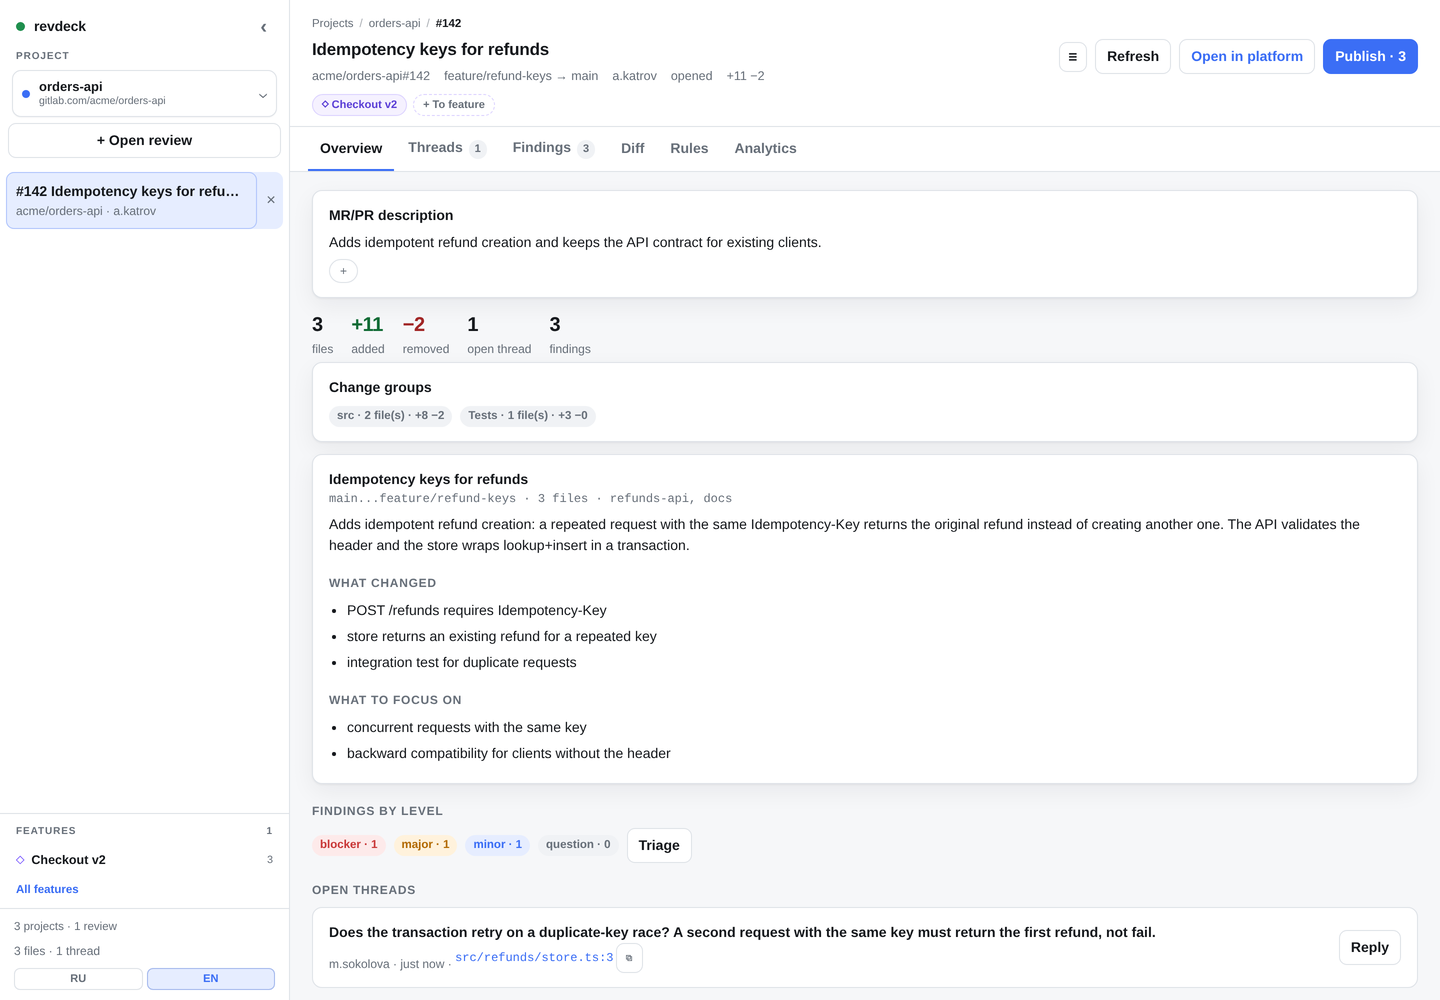
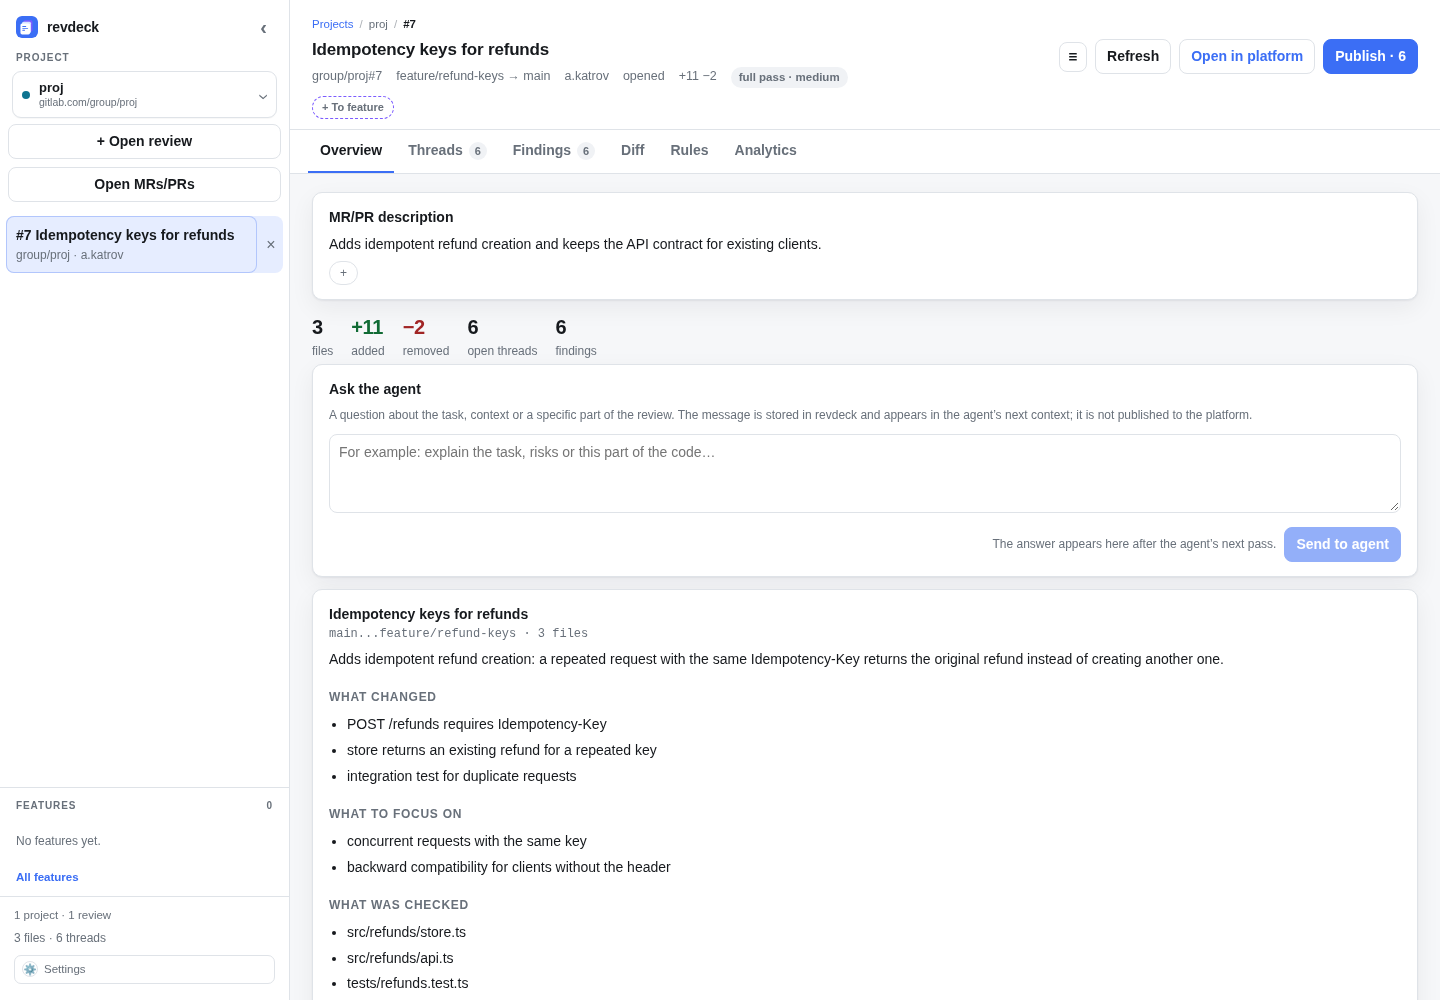
Release/v0.12.1 (#18)
* feat(ui): add back navigation from MR list

* feat(ui): use breadcrumb for MR list navigation

* docs: refresh UI screenshots

* chore(release): v0.12.1

* feat(ui): collapse review header on scroll

diff --git a/ui/src/components/MrList.svelte b/ui/src/components/MrList.svelte
@@ -1,20 +1,14 @@
 <script lang="ts">
-    import { onMount } from 'svelte';
+    import { onMount, tick } from 'svelte';
     import { app, errorText, loadPreview, notify, adoptOpenedReview, relativeTime } from '../lib/state.svelte';
     import { getRemoteReviews, openReview as openReviewApi, type RemoteReview } from '../lib/api';
     import { plural, t } from '../lib/i18n.svelte';
 
-    type Scope = 'open' | 'mine' | 'reviewing';
-    let scope = $state<Scope>('open');
     let loading = $state(false);
     let error = $state('');
     let items = $state<RemoteReview[]>([]);
-    let query = $state('');
-    let projectFilter = $state('all');
-    let author = $state('all');
-    let target = $state('all');
-    let draft = $state<'all' | 'draft' | 'ready'>('all');
     let busy = $state<string | null>(null);
+    const filters = $derived(app.mrFilters);
 
     async function load(): Promise<void> {
         loading = true;
@@ -22,13 +16,13 @@
         const errors: string[] = [];
         const collected: RemoteReview[] = [];
         try {
-            const projects = app.projects.filter((project) => projectFilter === 'all' || project.key === projectFilter);
+            const projects = app.projects.filter((project) => filters.project === 'all' || project.key === filters.project);
             await Promise.all(
                 projects.map(async (project) => {
                     const root = project.roots[0];
                     if (!root) return;
                     try {
-                        const result = await getRemoteReviews(root, scope, 100);
+                        const result = await getRemoteReviews(root, filters.scope, 100);
                         for (const item of result.items) {
                             collected.push({ ...item, root, projectKey: project.key });
                         }
@@ -41,6 +35,9 @@
             for (const item of collected) unique.set(`${item.projectKey}!${item.ref.number}`, item);
             items = [...unique.values()].sort((left, right) => right.updatedAt.localeCompare(left.updatedAt));
             if (errors.length) error = errors.join(' · ');
+            await tick();
+            const content = document.querySelector('.content');
+            if (content && app.mrScroll > 0) content.scrollTop = app.mrScroll;
         } finally {
             loading = false;
         }
@@ -54,13 +51,13 @@
     const authors = $derived([...new Set(items.map((item) => item.author).filter(Boolean))].sort());
     const targets = $derived([...new Set(items.map((item) => item.targetBranch).filter(Boolean) as string[])].sort());
     const visible = $derived.by(() => {
-        const needle = query.trim().toLowerCase();
+        const needle = filters.query.trim().toLowerCase();
         return items.filter((item) => {
-            if (projectFilter !== 'all' && item.projectKey !== projectFilter) return false;
-            if (author !== 'all' && item.author !== author) return false;
-            if (target !== 'all' && item.targetBranch !== target) return false;
-            if (draft === 'draft' && !item.draft) return false;
-            if (draft === 'ready' && item.draft) return false;
+            if (filters.project !== 'all' && item.projectKey !== filters.project) return false;
+            if (filters.author !== 'all' && item.author !== filters.author) return false;
+            if (filters.target !== 'all' && item.targetBranch !== filters.target) return false;
+            if (filters.draft === 'draft' && !item.draft) return false;
+            if (filters.draft === 'ready' && item.draft) return false;
             if (!needle) return true;
             return [item.title, item.author, item.projectKey, item.sourceBranch ?? '', item.targetBranch ?? '', String(item.ref.number)]
                 .join(' ')
@@ -71,6 +68,8 @@
 
     async function open(item: RemoteReview, preview: boolean): Promise<void> {
         busy = `${item.projectKey}!${item.ref.number}`;
+        app.viewOrigin = 'mrs';
+        app.mrScroll = document.querySelector('.content')?.scrollTop ?? 0;
         try {
             if (preview) {
                 await loadPreview({ ...item.ref }, { push: true });
@@ -104,27 +103,27 @@
 
 <section class="card mr-filters">
     <div class="row" style="gap: 8px; flex-wrap: wrap">
-        <select bind:value={scope} onchange={() => void load()}>
+        <select bind:value={app.mrFilters.scope} onchange={() => void load()}>
             <option value="open">{t('Все открытые', 'All open')}</option>
             <option value="mine">{t('Мои', 'Mine')}</option>
             <option value="reviewing">{t('На ревью', 'Review requested')}</option>
         </select>
-        <select bind:value={projectFilter} onchange={() => void load()}>
+        <select bind:value={app.mrFilters.project} onchange={() => void load()}>
             <option value="all">{t('Все проекты', 'All projects')}</option>
             {#each projects as project (project.key)}<option value={project.key}>{project.title || project.key}</option>{/each}
         </select>
-        <input bind:value={query} placeholder={t('Поиск: название, автор, ветка, номер…', 'Search: title, author, branch, number…')} style="flex: 1; min-width: 220px" />
+        <input bind:value={app.mrFilters.query} placeholder={t('Поиск: название, автор, ветка, номер…', 'Search: title, author, branch, number…')} style="flex: 1; min-width: 220px" />
     </div>
     <div class="row" style="gap: 8px; flex-wrap: wrap; margin-top: 8px">
-        <select bind:value={author}>
+        <select bind:value={app.mrFilters.author}>
             <option value="all">{t('Автор: любой', 'Author: any')}</option>
             {#each authors as value (value)}<option value={value}>@{value}</option>{/each}
         </select>
-        <select bind:value={target}>
+        <select bind:value={app.mrFilters.target}>
             <option value="all">{t('Target: любой', 'Target: any')}</option>
             {#each targets as value (value)}<option value={value}>{value}</option>{/each}
         </select>
-        <select bind:value={draft}>
+        <select bind:value={app.mrFilters.draft}>
             <option value="all">{t('Draft: все', 'Draft: all')}</option>
             <option value="draft">{t('только draft', 'only draft')}</option>
             <option value="ready">{t('без draft', 'without draft')}</option>

diff --git a/ui/src/App.svelte b/ui/src/App.svelte
@@ -1,6 +1,6 @@
 <script lang="ts">
     import { onMount } from 'svelte';
-    import { app, applyRoute, bootstrap, flushPendingReload, forgetReview, initFeaturesHidden, loadFeature, loadFeatures, loadPreview, loadProjects, loadReview, loadReviews, notify, setActiveProject, setTab, showFeaturesHome, showHelp, showMrList, showProjectsHome, showSettings, subscribe, writeHash } from './lib/state.svelte';
+    import { app, applyRoute, backToMrList, bootstrap, flushPendingReload, forgetReview, initFeaturesHidden, loadFeature, loadFeatures, loadPreview, loadProjects, loadReview, loadReviews, notify, setActiveProject, setTab, showFeaturesHome, showHelp, showMrList, showProjectsHome, showSettings, subscribe, writeHash } from './lib/state.svelte';
     import { removeProject as removeProjectApi, removeReview as removeReviewApi } from './lib/api';
     import type { ProjectSummary, ReviewListItem } from './lib/types';
     import type { Tab } from './lib/types';
@@ -33,7 +33,30 @@
     let addProjectOpen = $state(false);
     let editingProject = $state<ProjectSummary | null>(null);
     let sidebarOpen = $state(true);
+    let chromeHidden = $state(false);
+    let lastScrollTop = 0;
     const SIDEBAR_KEY = 'revdeck.sidebar';
+
+    function onContentScroll(event: Event): void {
+        const element = event.currentTarget as HTMLElement;
+        const top = element.scrollTop;
+        if (top <= 16) {
+            chromeHidden = false;
+        } else if (top > lastScrollTop + 8) {
+            chromeHidden = true;
+        } else if (top < lastScrollTop - 8) {
+            chromeHidden = false;
+        }
+        lastScrollTop = top;
+    }
+
+    $effect(() => {
+        // При смене ревью или вкладки шапка всегда снова на месте.
+        app.review?.id;
+        app.tab;
+        chromeHidden = false;
+        lastScrollTop = 0;
+    });
 
     const currentProject = $derived(app.projects.find((project) => project.key === app.activeProject) ?? null);
     const openThreads = $derived(app.review ? app.review.threads.filter((thread) => !thread.resolved).length : 0);
@@ -78,6 +101,7 @@
 
     function openReview(id: string): void {
         if (app.review?.id === id) return;
+        app.viewOrigin = null;
         // Не сбрасываем вкладку: переключение ревью не должно выглядеть как перезагрузка UI.
         app.focus = null;
         app.diffFocus = null;
@@ -335,11 +359,21 @@
             <Help />
         {:else if app.review}
             {@const review = app.review}
+            <div class="review-chrome" class:collapsed={chromeHidden} inert={chromeHidden}>
             <header class="header">
                 <div class="breadcrumbs">
                     <button class="breadcrumb-link" type="button" onclick={() => showProjectsHome()}>{t('Проекты', 'Projects')}</button>
                     <span class="sep">/</span>
                     <span>{currentProject ? projectLabel(currentProject, app.projects) : review.info.ref.project}</span>
+                    {#if app.viewOrigin === 'mrs'}
+                        <span class="sep">/</span>
+                        <button
+                            class="breadcrumb-link"
+                            type="button"
+                            title={t('Вернуться к списку MR/PR', 'Back to the MR/PR list')}
+                            onclick={() => backToMrList()}
+                        >{t('Открытые MR/PR', 'Open MRs/PRs')}</button>
+                    {/if}
                     <span class="sep">/</span>
                     <span class="cur">#{review.info.ref.number}</span>
                 </div>
@@ -436,6 +470,7 @@
                 {/if}
             </div>
             {/if}
+            </div>
 
             {#if app.loading}
                 <div class="loading-bar" role="progressbar" aria-label={t('Загрузка ревью', 'Loading review')}></div>
@@ -449,7 +484,7 @@
                 {/each}
             </nav>
 
-            <section class="content">
+            <section class="content" onscroll={onContentScroll}>
                 {#if app.loading && !review}
                     <p class="muted">{t('Загрузка…', 'Loading…')}</p>
                 {:else if app.tab === 'overview'}

diff --git a/ui/src/lib/state.svelte.ts b/ui/src/lib/state.svelte.ts
@@ -33,6 +33,16 @@ export const app = $state({
     reviewFeatures: [] as FeatureSummary[],
     reviews: [] as ReviewListItem[],
     review: null as ReviewView | null,
+    viewOrigin: null as 'mrs' | null,
+    mrScroll: 0,
+    mrFilters: {
+        scope: 'open' as 'open' | 'mine' | 'reviewing',
+        project: 'all',
+        query: '',
+        author: 'all',
+        target: 'all',
+        draft: 'all' as 'all' | 'draft' | 'ready',
+    },
     /** Просмотр MR/PR без записи в ревью. */
     preview: false,
     previewRef: null as PreviewRef | null,
@@ -274,6 +284,7 @@ export async function loadFeatureContext(id: string, maxBytes?: number): Promise
 
 export function showSettings(push = true): void {
     app.settings = true;
+    app.viewOrigin = null;
     app.projectsHome = false;
     app.mrList = false;
     app.featuresHome = false;
@@ -286,9 +297,16 @@ export function showSettings(push = true): void {
     writeHash(push);
 }
 
-export async function showMrList(push = true): Promise<void> {
+export function backToMrList(): void {
+    app.viewOrigin = null;
+    void showMrList(true, true);
+}
+
+export async function showMrList(push = true, restoreScroll = false): Promise<void> {
     app.mrList = true;
     app.settings = false;
+    app.viewOrigin = null;
+    if (!restoreScroll) app.mrScroll = 0;
     app.projectsHome = false;
     app.featuresHome = false;
     app.help = false;
@@ -304,6 +322,7 @@ export async function showMrList(push = true): Promise<void> {
 export async function showFeaturesHome(push = true): Promise<void> {
     const epoch = routeEpoch;
     app.featuresHome = true;
+    app.viewOrigin = null;
     app.feature = null;
     app.review = null;
     app.preview = false;
@@ -375,6 +394,7 @@ export async function adoptOpenedReview(review: ReviewView): Promise<void> {
 
 export function showProjectsHome(push = true): void {
     app.projectsHome = true;
+    app.viewOrigin = null;
     app.mrList = false;
     app.settings = false;
     app.featuresHome = false;
@@ -813,6 +833,7 @@ export function applyRoute(): void {
     if (route.mrList) {
         app.mrList = true;
         app.settings = false;
+        app.viewOrigin = null;
         app.projectsHome = false;
         app.featuresHome = false;
         app.feature = null;
@@ -950,6 +971,8 @@ export async function bootstrap(): Promise<void> {
     }
     if (route.mrList) {
         app.mrList = true;
+        app.settings = false;
+        app.viewOrigin = null;
         app.projectsHome = false;
         app.featuresHome = false;
         app.feature = null;

diff --git a/ui/src/app.css b/ui/src/app.css
@@ -256,6 +256,19 @@ pre {
     min-height: 0;
 }
 
+.review-chrome {
+    max-height: 50vh;
+    flex: none;
+    overflow: hidden;
+    transition: max-height 220ms ease, opacity 160ms ease;
+}
+
+.review-chrome.collapsed {
+    max-height: 0;
+    opacity: 0;
+    pointer-events: none;
+}
+
 .header {
     padding: 16px 22px 10px;
     border-bottom: 1px solid var(--border);
@@ -1785,7 +1798,7 @@ mark {
     border: 0;
     background: none;
     padding: 0;
-    color: var(--muted);
+    color: var(--accent);
     font: inherit;
     cursor: pointer;
 }

diff --git a/src/version.ts b/src/version.ts
@@ -1,2 +1,2 @@
-export const VERSION = '0.12.0';
+export const VERSION = '0.12.1';
 export const PROTOCOL_VERSION = 2;

diff --git a/README.ru.md b/README.ru.md
@@ -46,7 +46,8 @@
   фоне; открытие не ждёт `glab`/`gh`, а фоновые обновления не перезапускают загрузку вкладок.
 - **Страница открытых MR/PR.** В сайдбаре открывается список открытых MR/PR по всем проектам с
   фильтрами по scope, проекту, тексту, автору, target и draft; каждую строку можно посмотреть
-  read-only или открыть как ревью.
+  read-only или открыть как ревью. При открытии из списка появляются кликабельные хлебные крошки,
+  а возврат сохраняет фильтры и позицию скролла.
 - **Страница настроек.** Тема (системная/светлая/тёмная), язык интерфейса, справка и видимость
   раздела «Фичи» вынесены на отдельную страницу; тема и видимость сохраняются локально.
 - **Просмотр MR/PR без ревью.** В диалоге «Открыть ревью» есть «Только посмотреть»: описание,
@@ -59,6 +60,8 @@
   и статус мержа. Конфликт или «ветка отстаёт от target» видны до замечаний, поэтому чистый diff на
   merge-base не принимается за готовый к мержу MR. У локального diff и старых снимков merge-инфо
   может отсутствовать.
+- **Компактно при скролле.** Шапка ревью сворачивается при прокрутке вниз и плавно возвращается
+  при прокрутке вверх; вкладки разделов остаются сверху.
 - **Большие списки остаются лёгкими.** Треды и замечания рендерят только видимые страницы; фокус,
   редакторы и deep-link'и продолжают работать, а небольшие ревью рендерятся целиком.
 

diff --git a/docs/ru/capabilities.md b/docs/ru/capabilities.md
@@ -42,9 +42,13 @@ agent (MCP/CLI) ──unix socket──▶ revdeck daemon ──glab/gh──▶
   вливаются в текущее ревью, поэтому загрузчики вкладок (Rules, Analytics, Diff) не перезапускаются на
   каждый SSE/поллинг. Heartbeat'ы SSE отключают поллинг-страховку, а события review/feature/project
   обновляют только свою часть.
+- Шапка ревью сворачивается при прокрутке вниз и плавно возвращается вверх; вкладки разделов
+  остаются видимыми. Тот же паттерн используется там, где есть большой хедер страницы.
 - В UI есть кросс-проектная страница открытых MR/PR с клиентскими фильтрами по scope, поиску,
   автору, target и draft; она использует существующий `reviews.remoteList` по каждому
-  зарегистрированному проекту и открывает read-only preview или полное ревью.
+  зарегистрированному проекту и открывает read-only preview или полное ревью. При открытии из
+  списка запоминается origin, поэтому preview/ревью показывают кликабельные крошки; возврат
+  восстанавливает фильтры и скролл.
 - Тема, язык интерфейса, справка и видимость раздела «Фичи» находятся на отдельной странице
   настроек; тема и видимость сохраняются локально.
 - Просмотр MR/PR без ревью: `POST /api/previews/open` получает info, diff и треды в короткоживущий кэш;

diff --git a/README.md b/README.md
@@ -48,6 +48,7 @@ and a web UI. Platform tokens stay on the host.
   background; opening never waits for `glab`/`gh`, and background reloads do not restart tab loaders.
 - **Open MRs/PRs page.** The sidebar opens a cross-project list of open MRs/PRs with scope, project,
   text, author, target and draft filters; each row can be previewed read-only or opened as a review.
+  Opening from the list keeps a clickable breadcrumb, and returning restores the filters and scroll.
 - **Settings page.** Theme (system/light/dark), interface language, command reference and the
   Features-section visibility live on a separate Settings page; theme and visibility are stored
   locally.
@@ -60,6 +61,8 @@ and a web UI. Platform tokens stay on the host.
 - **Merge-aware review.** Every open MR/PR review keeps its target branch, diff base/head and merge
   state. Conflict or "behind target" is surfaced before findings, so a clean merge-base diff is not
   mistaken for a mergeable MR. Local diffs and snapshots from older versions may not have merge info.
+- **Compact on scroll.** The review header collapses when scrolling down and returns when scrolling
+  up; the section tabs stay at the top.
 - **Large lists stay light.** Threads and findings render only visible pages; focus, editors and deep
   links keep working, and small reviews are rendered in full.
 

diff --git a/docs/capabilities.md b/docs/capabilities.md
@@ -42,9 +42,12 @@ The core guarantees:
   opening never waits for `glab`/`gh`. Background reloads merge into the current review, so tab loaders
   such as Rules, Analytics and Diff are not restarted on every SSE/poll tick. SSE heartbeats gate the
   polling fallback, and review, feature and project events reload only their own scope.
+- The review header collapses on downward scroll and smoothly returns on upward scroll; section tabs
+  remain visible. The same content-scroll pattern is used where a large page header is present.
 - The UI has a cross-project Open MRs/PRs page with client-side scope/search/author/target/draft
   filters; it uses the existing `reviews.remoteList` per registered project and can open either the
-  read-only preview or a full review.
+  read-only preview or a full review. Opening from the list records the origin, so preview/review
+  show a clickable breadcrumb; returning restores filters and scroll.
 - Theme, interface language, command reference and Features-section visibility live on a separate
   Settings page; theme and visibility are stored locally.
 - Read-only MR/PR preview: `POST /api/previews/open` fetches info, diff and threads into a short-lived in-memory

diff --git a/CHANGELOG.md b/CHANGELOG.md
@@ -4,6 +4,20 @@ All notable changes to this project are documented here. The format is based on
 [Keep a Changelog](https://keepachangelog.com/en/1.1.0/) and
 [Semantic Versioning](https://semver.org/spec/v2.0.0.html).
 
+## [0.12.1] - 2026-11-23
+
+### Added
+
+- MR list navigation: opening a preview or review from the Open MRs/PRs page adds a clickable
+  breadcrumb. Returning restores the list filters and scroll position.
+- The review header collapses when the content is scrolled down and smoothly returns on scroll up;
+  the Overview/Threads/Findings/Diff tabs stay visible at the top.
+
+### Changed
+
+- Documentation screenshots refreshed to the current UI, including the MR list, settings and review
+  overview.
+
 ## [0.12.0] - 2026-11-23
 
 ### Added
